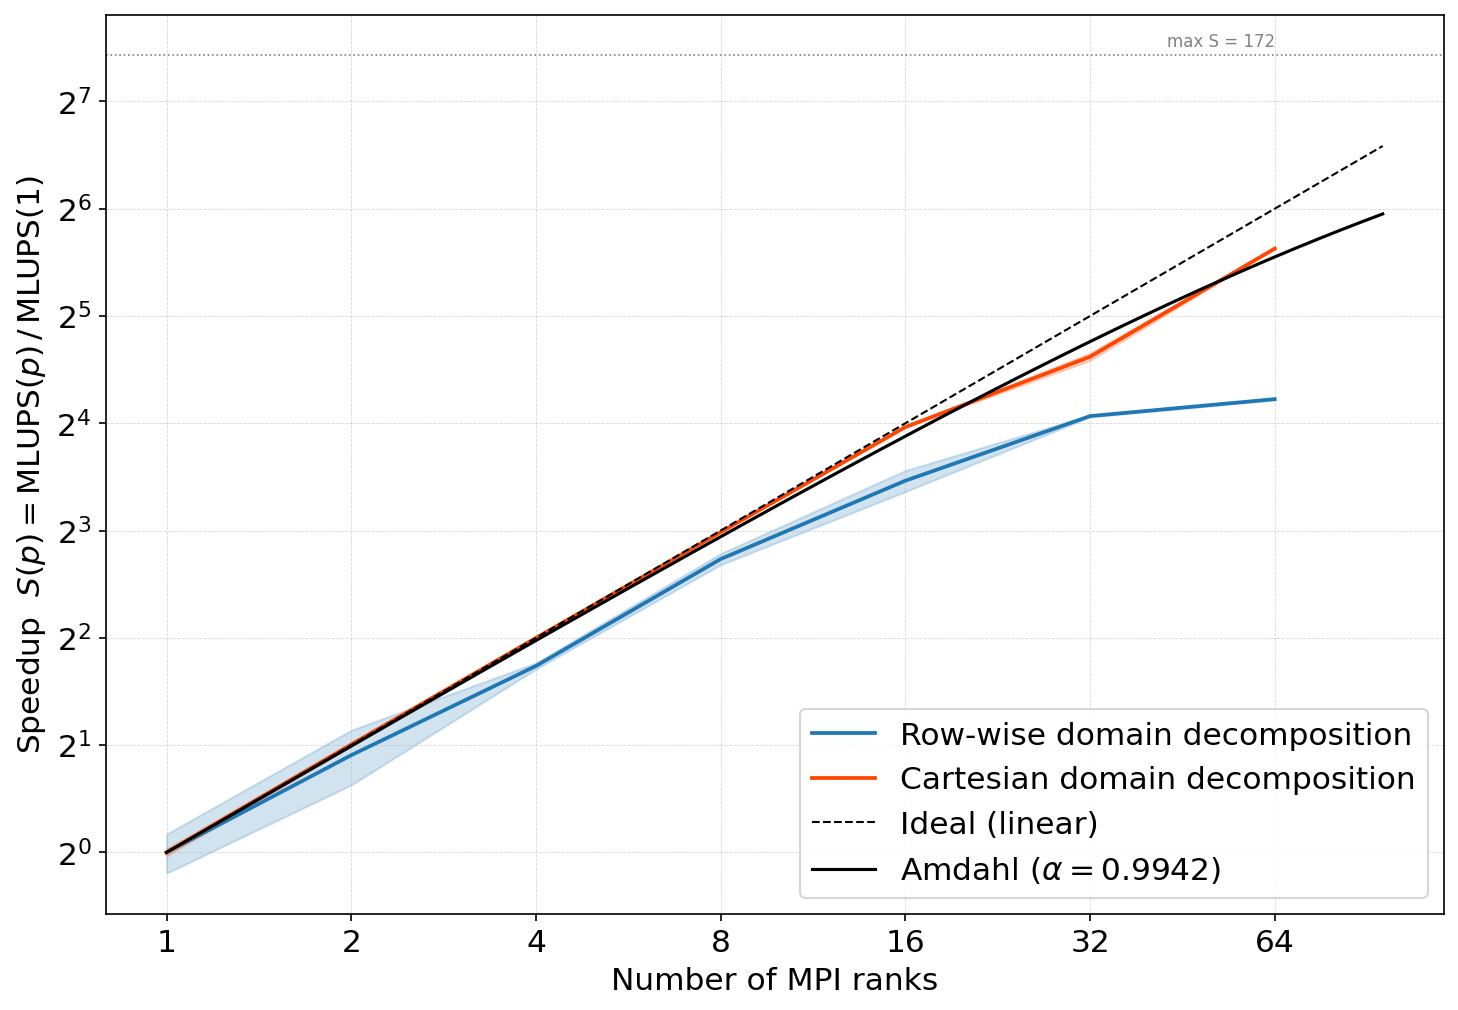
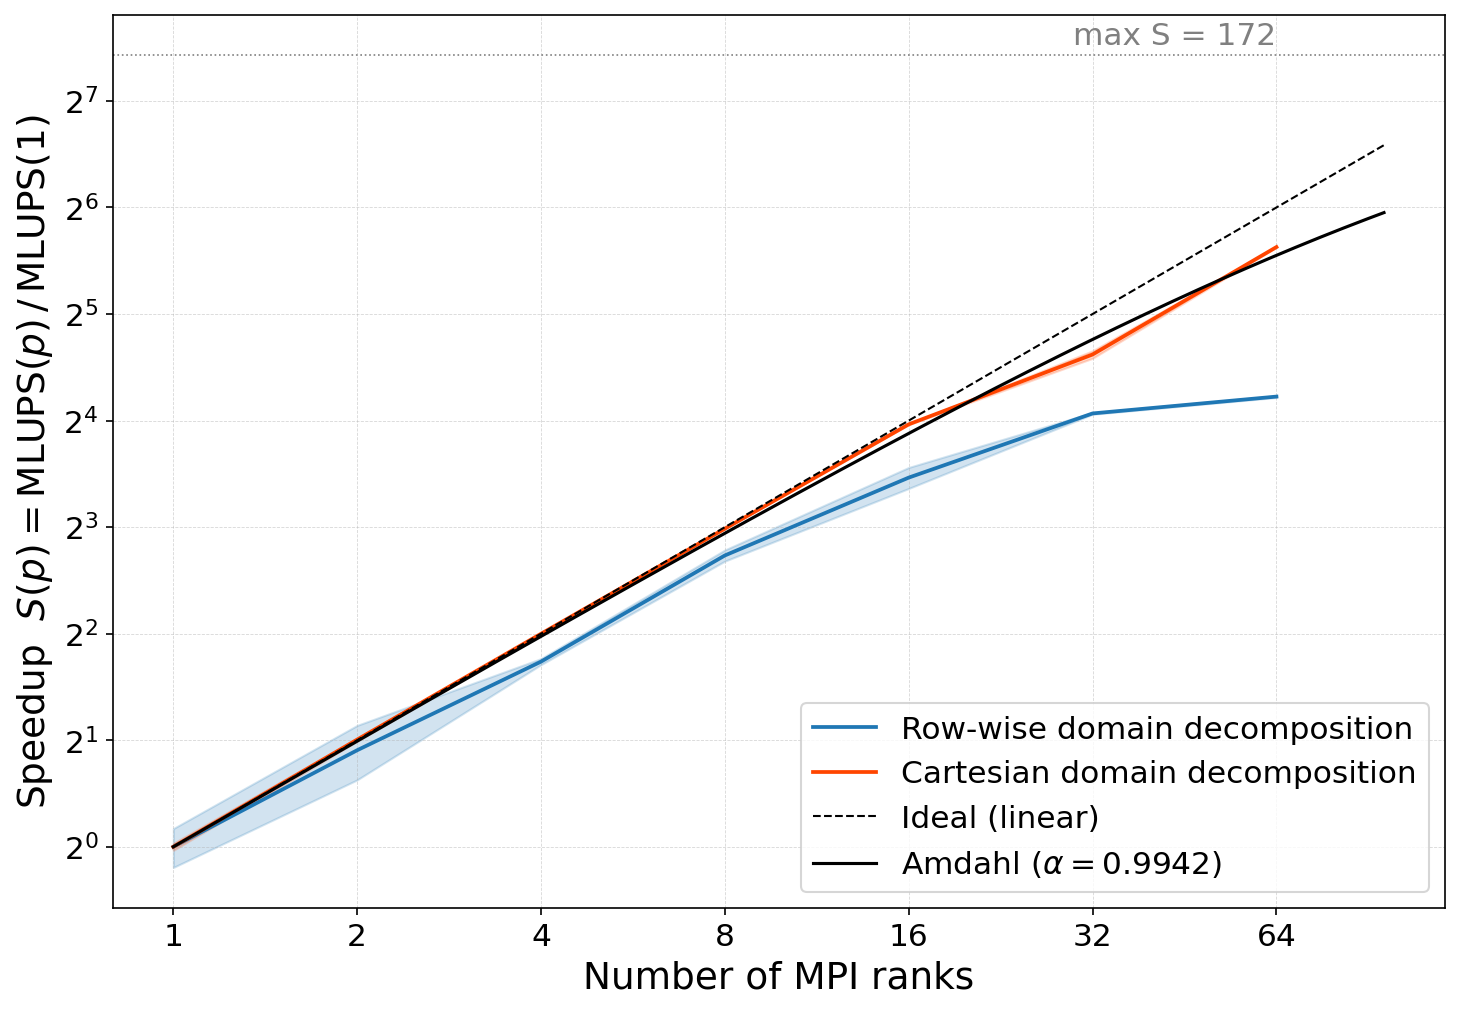
bigger label font size comparison

diff --git a/viz/mpi_scaling_method_comparison.py b/viz/mpi_scaling_method_comparison.py
@@ -21,6 +21,7 @@ os.makedirs(FOLDER, exist_ok=True)
 plt.rcParams.update({
     "font.size": 15
 })
+LABEL_SIZE = 18
 
 # ── Configuration ─────────────────────────────────────────────────────────────
 CSV   = "./out/strong_scaling_mpi/results.csv"
@@ -62,14 +63,14 @@ ax.plot(p_smooth, 1.0 / ((1.0 - ALPHA) + ALPHA / p_smooth),
 ceiling = 1.0 / (1.0 - ALPHA)
 ax.axhline(ceiling, color="gray", linestyle=":", linewidth=0.8)
 ax.text(max(ranks), ceiling * 1.03, f"max S = {ceiling:.0f}",
-        fontsize=8, ha="right", va="bottom", color="gray")
+        fontsize=15, ha="right", va="bottom", color="gray")
 
 ax.set_xscale("log", base=2)
 ax.set_yscale("log", base=2)
 ax.set_xticks(ranks)
 ax.set_xticklabels(ranks)
-ax.set_xlabel("Number of MPI ranks")
-ax.set_ylabel(r"Speedup  $S(p) = \mathrm{MLUPS}(p)\,/\,\mathrm{MLUPS}(1)$")
+ax.set_xlabel("Number of MPI ranks", fontsize=LABEL_SIZE)
+ax.set_ylabel(r"Speedup  $S(p) = \mathrm{MLUPS}(p)\,/\,\mathrm{MLUPS}(1)$", fontsize=LABEL_SIZE)
 #ax.set_title("Strong scaling — MPI LBM (1600x800, 60 000 steps)")
 ax.set_title("")
 ax.legend(title=None)
@@ -129,8 +130,8 @@ ax2.set_xscale("log", base=2)
 ax2.set_xticks([1,2,4,8,16,32,64])
 ax2.set_xticklabels([1,2,4,8,16,32,64])
 ax2.set_ylim(0, 1.2)
-ax2.set_xlabel("Number of MPI ranks")
-ax2.set_ylabel(r"Parallel efficiency  $E(p) = T_1 / T_p$")
+ax2.set_xlabel("Number of MPI ranks", fontsize=LABEL_SIZE)
+ax2.set_ylabel(r"Parallel efficiency  $E(p) = T_1 / T_p$", fontsize=LABEL_SIZE)
 #ax2.set_title("Weak scaling — MPI LBM (80K lattice points per rank, 60 000 steps)")
 ax2.set_title("")
 ax2.legend(title=None)
@@ -173,8 +174,8 @@ ax3.set_xscale("log", base=2)
 ax3.set_yscale("log", base=2)
 ax3.set_xticks([1,2,4,8,16,32,64])
 ax3.set_xticklabels([1,2,4,8,16,32,64])
-ax3.set_xlabel("Number of MPI ranks")
-ax3.set_ylabel(r"Speedup  $S(p) = \mathrm{MLUPS}(p)\,/\,\mathrm{MLUPS}(1)$")
+ax3.set_xlabel("Number of MPI ranks", fontsize=LABEL_SIZE)
+ax3.set_ylabel(r"Speedup  $S(p) = \mathrm{MLUPS}(p)\,/\,\mathrm{MLUPS}(1)$", fontsize=LABEL_SIZE)
 #ax3.set_title("Weak scaling — MPI LBM (400×200 per rank, 60 000 steps)")
 ax3.set_title("")
 ax3.legend(title=None)
